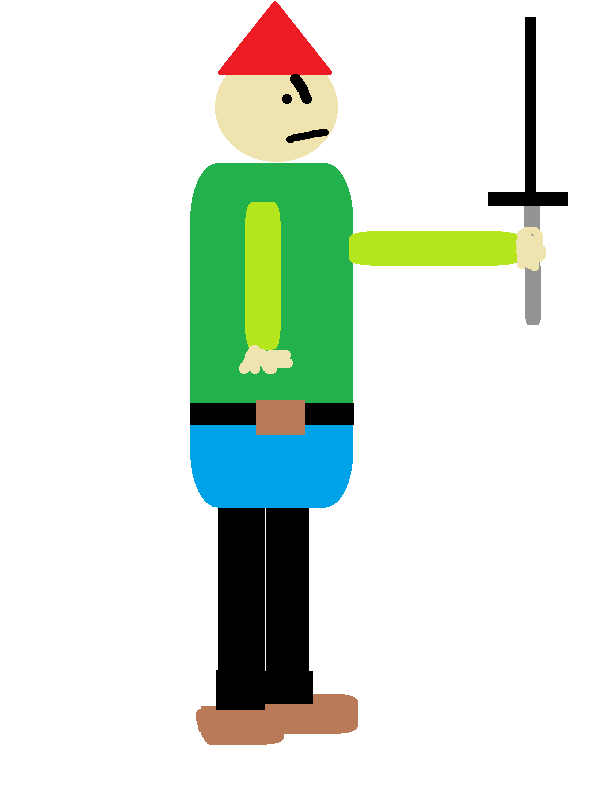
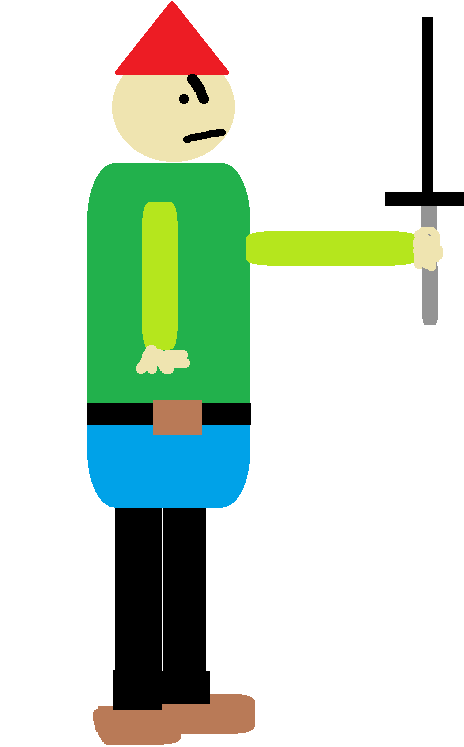
started making gameplay

Changed region(s): [[0.181, 0.0, 1.0, 1.0]]

diff --git a/style.css b/style.css
@@ -1,5 +1,5 @@
 #index{
-    background-image: url(Untitled.png);
+    background-color: gray;
 }
 body{
     background-color: gray;

diff --git a/gamae.py b/gamae.py
@@ -1,13 +1,39 @@
 import pygame
+import time
 pygame.init()
 screen=pygame.display.set_mode((800,600))
 clock=pygame.time.Clock()
-player=pygame.Rect(100,400,50,50)
+player1=pygame.Rect(0,0,50,50)
 runing=True
+floor=pygame.Rect(0,590,800,10)
+player1_vl_x=0
+player1_vl_y=0
+
 while runing:
-    screen.fill('blue')
-    pygame.draw.rect(screen,'red',player)
+    for event in pygame.event.get():
+        if event.type==pygame.QUIT:
+            runing=False
+    if player1_vl_y<5:
+        player1_vl_y+=1 
+    player1.y+=player1_vl_y
+    key=pygame.key.get_pressed()
+
+    if key[pygame.K_d]:
+        player1.x+=1
+    elif key[pygame.K_a]:
+        player1.x-=1
+
+    if player1.colliderect(floor):
+            player1.y=floor.y-player1.height
+            player1_vl_y=0
+        
+    if key[pygame.K_SPACE]:
+        player1_vl_y=-2
+
+    screen.fill('purple')
+    pygame.draw.rect(screen,'red',player1)
+    pygame.draw.rect(screen,'brown',floor)
     pygame.display.flip()
-    clock.tick(60)
+    clock.tick(150)
 
 pygame.quit()
